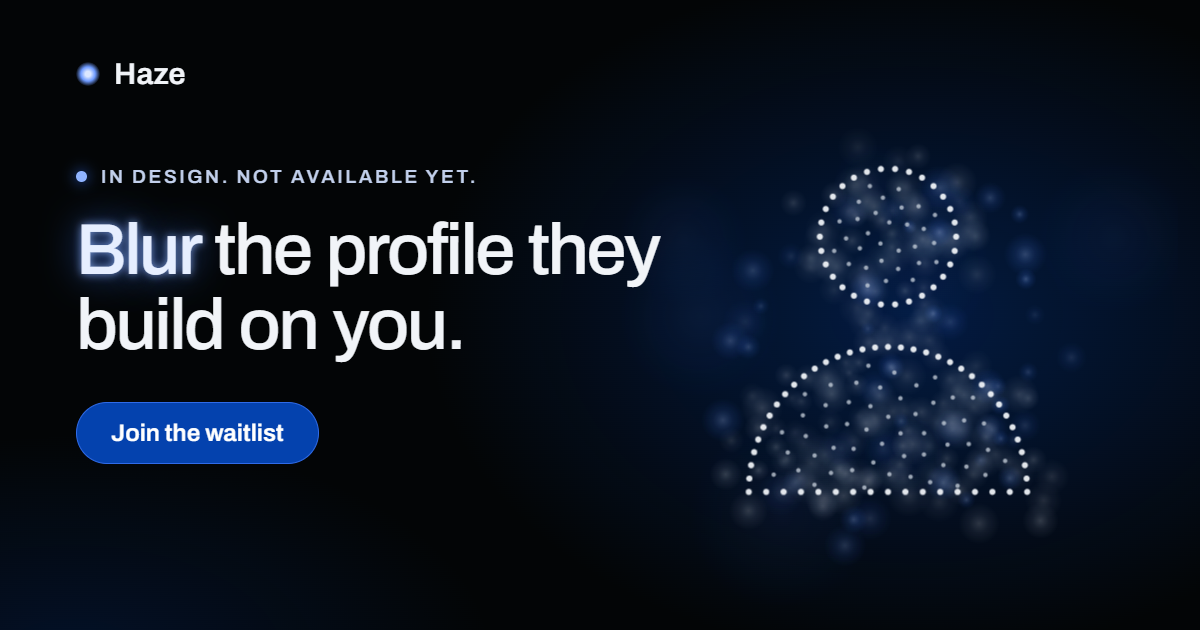
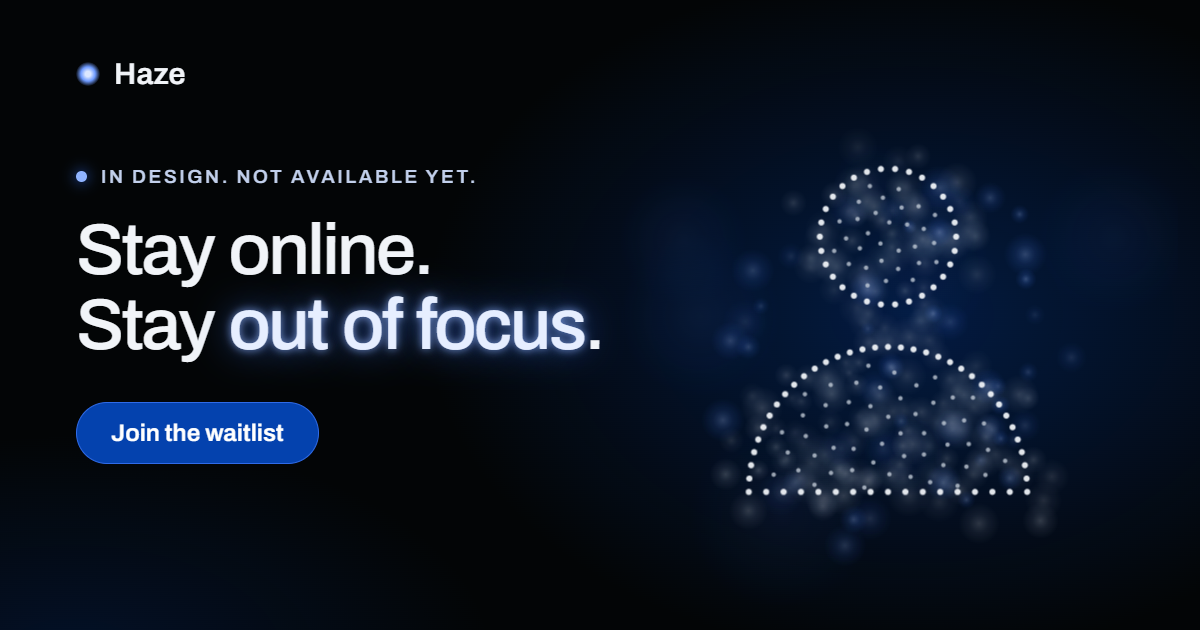
content: /haze headline is now "Stay online. Stay out of focus."
The page title, the pinned wording and the link-preview picture follow it.
Not released.

Changed region(s): [[0.0617, 0.3317, 0.555, 0.573]]

diff --git a/tests/haze.spec.js b/tests/haze.spec.js
@@ -179,7 +179,7 @@ for (const [width, height] of [[320, 568], [390, 664], [768, 1024], [1440, 900]]
     await page.goto(ROUTE);
     await page.evaluate(() => document.fonts.ready);
     await expect(page).toHaveTitle(routeMeta[ROUTE].title);
-    await expect(page.getByRole('heading', { level: 1 })).toHaveAccessibleName('Blur the profile they build on you.');
+    await expect(page.getByRole('heading', { level: 1 })).toHaveAccessibleName('Stay online. Stay out of focus.');
     await expect(page.locator('h1')).toHaveCount(1);
     // Real headings, in order: one first-level heading, then one for each section.
     expect(await page.locator('#main-content').locator('h1, h2, h3, h4').evaluateAll((headings) => headings.map((heading) => heading.tagName))).toEqual(['H1', ...Array(7).fill('H2')]);

diff --git a/src/data/routeMeta.js b/src/data/routeMeta.js
@@ -149,7 +149,7 @@ export const routeMeta = {
     description: "Human direction and agent execution. The studio approach behind Whoff Agents' websites, AI services and developer tools.",
   },
   "/haze": {
-    title: "Haze | Blur the profile they build on you",
+    title: "Haze | Stay online. Stay out of focus.",
     description: "Haze is a privacy app in design. It will add decoy activity built to behave like real people, test it against a detector, and show you the result. Join the waitlist.",
     image: "/og-haze.png", // its own link-preview picture, drawn by scripts/make-haze-card.mjs
     sitemap: false, // unlisted: opened by direct link only, and no other page links to it

diff --git a/src/pages/HazePage.jsx b/src/pages/HazePage.jsx
@@ -107,7 +107,7 @@ export default function HazePage() {
           <div className="hz-opening-copy">
             <p className="hz-label">In design. Not available yet.</p>
             <h1 className="hz-title" id="top-title">
-              <span className="hz-title-soft">Blur</span> the profile they build on you.
+              Stay online. Stay <span className="hz-title-soft">out of focus</span>.
             </h1>
             <p className="hz-lede">
               Every search, visit and tap adds to a profile of you. Haze will add decoy activity built to behave like real people, so that profile says less
